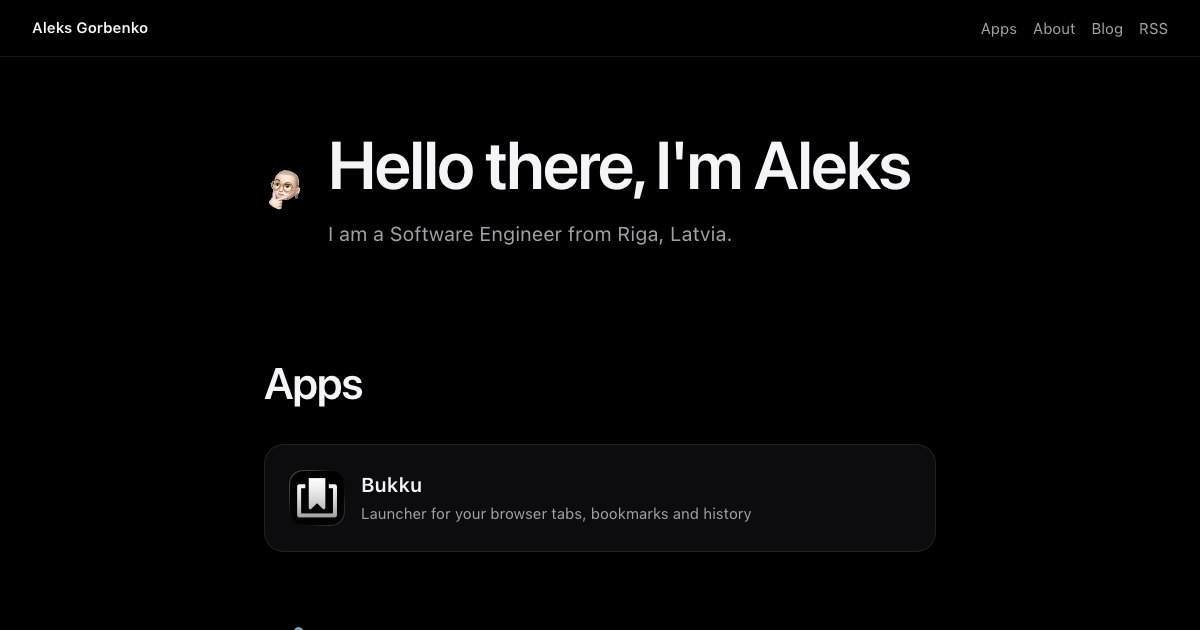
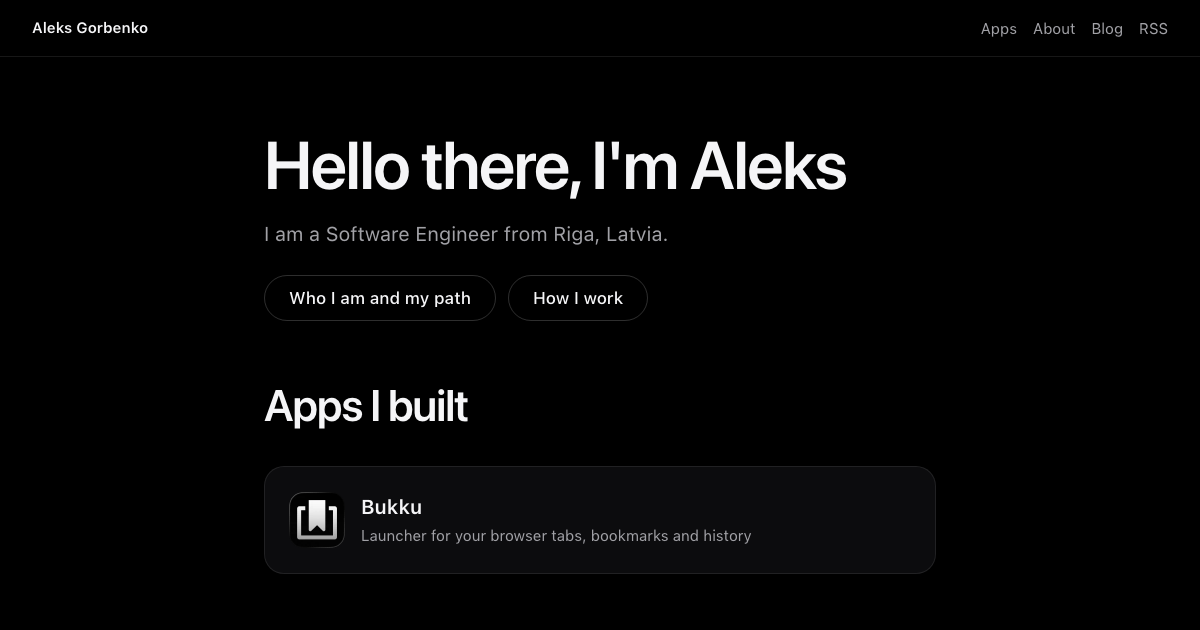
feat(home): profile links under the intro, Apps I built next, incremental make og
Thumbnails rebuild only for pages whose HTML changed; FORCE=1 redoes all.

diff --git a/tools/og.ts b/tools/og.ts
@@ -1,4 +1,5 @@
-import { mkdirSync, readdirSync, readFileSync, rmSync, statSync } from "node:fs";
+import { createHash } from "node:crypto";
+import { existsSync, mkdirSync, readdirSync, readFileSync, rmSync, statSync, writeFileSync } from "node:fs";
 import { join, relative } from "node:path";
 import { chromium } from "playwright";
 import { serve } from "./serve.ts";
@@ -6,40 +7,60 @@ import { serve } from "./serve.ts";
 const ROOT = join(import.meta.dir, "..");
 const PUBLIC = join(ROOT, "public");
 const OUT = join(ROOT, "static", "og");
+const MANIFEST = join(ROOT, "tools", "og-hashes.json");
 const WIDTH = 1200;
 const HEIGHT = 630;
 const REDIRECT = /<meta http-equiv="?refresh"?/i;
 
-function pages(folder: string): string[] {
-  return readdirSync(folder).flatMap((entry) => {
-    const path = join(folder, entry);
-    if (statSync(path).isDirectory()) {
-      return pages(path);
-    }
-    if (entry !== "index.html" || REDIRECT.test(readFileSync(path, "utf8"))) {
-      return [];
-    }
-    return [`/${relative(PUBLIC, folder)}/`.replace(/\/+/g, "/")];
-  });
+interface Page {
+  path: string;
+  slug: string;
+  hash: string;
 }
 
-export function slug(path: string): string {
+function slug(path: string): string {
   return path.replace(/^\/|\/$/g, "").replaceAll("/", "_") || "home";
 }
 
-rmSync(OUT, { recursive: true, force: true });
-mkdirSync(OUT, { recursive: true });
-const server = serve(0);
-const browser = await chromium.launch();
-try {
-  const page = await browser.newPage({ viewport: { width: WIDTH, height: HEIGHT } });
-  for (const path of pages(PUBLIC).sort()) {
-    await page.goto(new URL(path, server.url).href, { waitUntil: "networkidle" });
-    const file = join(OUT, `${slug(path)}.png`);
-    await page.screenshot({ path: file });
-    console.log(relative(ROOT, file));
-  }
-} finally {
-  await browser.close();
-  void server.stop();
+function pages(folder: string): Page[] {
+  return readdirSync(folder).flatMap((entry) => {
+    const file = join(folder, entry);
+    if (statSync(file).isDirectory()) {
+      return pages(file);
+    }
+    const html = entry === "index.html" ? readFileSync(file, "utf8") : "";
+    if (html === "" || REDIRECT.test(html)) {
+      return [];
+    }
+    const path = `/${relative(PUBLIC, folder)}/`.replace(/\/+/g, "/");
+    return [{ path, slug: slug(path), hash: createHash("sha256").update(html).digest("hex") }];
+  });
 }
+
+const force = process.env["FORCE"] === "1";
+const previous = existsSync(MANIFEST) ? (JSON.parse(readFileSync(MANIFEST, "utf8")) as Record<string, string>) : {};
+const all = pages(PUBLIC).sort((a, b) => a.slug.localeCompare(b.slug));
+const changed = all.filter((page) => force || previous[page.slug] !== page.hash || !existsSync(join(OUT, `${page.slug}.png`)));
+mkdirSync(OUT, { recursive: true });
+const keep = new Set(all.map((page) => `${page.slug}.png`));
+for (const file of readdirSync(OUT).filter((entry) => !keep.has(entry))) {
+  rmSync(join(OUT, file));
+  console.log(`removed ${file}`);
+}
+if (changed.length > 0) {
+  const server = serve(0);
+  const browser = await chromium.launch();
+  try {
+    const page = await browser.newPage({ viewport: { width: WIDTH, height: HEIGHT } });
+    for (const { path, slug: name } of changed) {
+      await page.goto(new URL(path, server.url).href, { waitUntil: "networkidle" });
+      await page.screenshot({ path: join(OUT, `${name}.png`) });
+      console.log(`static/og/${name}.png`);
+    }
+  } finally {
+    await browser.close();
+    void server.stop();
+  }
+}
+writeFileSync(MANIFEST, `${JSON.stringify(Object.fromEntries(all.map((page) => [page.slug, page.hash])), null, 2)}\n`);
+console.log(`${String(changed.length)} of ${String(all.length)} thumbnails updated`);

diff --git a/layouts/home.html b/layouts/home.html
@@ -1,18 +1,20 @@
 {{ define "main" }}
   <div class="container container-prose">
-    <section class="page-header intro" aria-label="Introduction">
-      {{ with site.Params.avatar }}
-        <img src="{{ . | relURL }}" width="40" height="40" alt="" />
+    <section class="page-header" aria-label="Introduction">
+      <h1 class="page-title">{{ .Params.heading | default site.Title }}</h1>
+      {{ with .Params.lead }}<p class="page-lead">{{ . }}</p>{{ end }}
+      {{ with .Params.profile }}
+        <ul class="intro-links">
+          {{ range . }}
+            <li><a class="button button-secondary" href="{{ .url }}">{{ .title }}</a></li>
+          {{ end }}
+        </ul>
       {{ end }}
-      <div>
-        <h1 class="page-title">{{ .Params.heading | default site.Title }}</h1>
-        {{ with .Params.lead }}<p class="page-lead">{{ . }}</p>{{ end }}
-      </div>
     </section>
 
     {{ with site.GetPage "/apps" }}
       <section class="section" aria-labelledby="apps-title">
-        <h2 class="section-title" id="apps-title">{{ .Title }}</h2>
+        <h2 class="section-title" id="apps-title">{{ $.Params.appsHeading | default .Title }}</h2>
         <ul class="cards">
           {{ range where .Pages "Params.icon" "!=" nil }}
             <li>{{ partial "app-card.html" . }}</li>

diff --git a/assets/css/14-faq.css b/assets/css/14-faq.css
@@ -52,15 +52,12 @@
     margin-top: var(--space-xs);
   }
 
-  .intro {
+  .intro-links {
     display: flex;
     flex-wrap: wrap;
-    align-items: center;
-    gap: var(--space-l);
-  }
-
-  .intro img {
-    width: var(--size-avatar);
-    border-radius: var(--radius-full);
+    gap: var(--space-s);
+    margin-top: var(--space-l);
+    padding: 0;
+    list-style: none;
   }
 }

diff --git a/assets/css/02-tokens.css b/assets/css/02-tokens.css
@@ -68,7 +68,6 @@
     --size-icon-s: 3.5rem;
     --size-icon-m: 4.5rem;
     --size-icon-l: clamp(5.5rem, 4.5rem + 4vw, 8rem);
-    --size-avatar: 2.5rem;
     --shadow-icon: 0 1.5rem 3.5rem var(--colour-shadow);
     --shadow-glow: 0 0 6rem var(--colour-glow);
     --shadow-key: 0 0.625rem 1.5rem var(--colour-key-shadow), inset 0 var(--border-hairline) 0 var(--colour-border);

diff --git a/assets/css/10-hero.css b/assets/css/10-hero.css
@@ -93,6 +93,16 @@
     text-decoration: none;
   }
 
+  .button-secondary {
+    border-color: var(--colour-border-strong);
+    background: transparent;
+    color: var(--colour-text);
+  }
+
+  .button-secondary:hover {
+    background: var(--colour-border);
+  }
+
   .button[aria-disabled="true"] {
     border-color: var(--colour-border-strong);
     background: transparent;

diff --git a/assets/css/04-layout.css b/assets/css/04-layout.css
@@ -105,6 +105,10 @@
     padding-block: var(--space-3xl);
   }
 
+  .page-header + .section {
+    padding-top: var(--space-l);
+  }
+
   .section-title {
     margin-bottom: var(--space-xl);
     font-size: var(--text-2xl);

diff --git a/assets/css/13-prose.css b/assets/css/13-prose.css
@@ -24,6 +24,10 @@
     font-size: var(--text-xl);
   }
 
+  .section + .prose > h2:first-child {
+    margin-top: 0;
+  }
+
   .prose h3,
   .prose h4 {
     margin-top: var(--space-xl);

diff --git a/content/_index.md b/content/_index.md
@@ -1,23 +1,27 @@
 +++
 heading = "Hello there, I'm Aleks"
 lead = "I am a Software Engineer from Riga, Latvia."
+appsHeading = "Apps I built"
+
+[[profile]]
+title = "Who I am and my path"
+url = "https://github.com/aleksgorbenko/whoami"
+
+[[profile]]
+title = "How I work"
+url = "https://github.com/aleksgorbenko/howiwork"
 +++
 
-- 👤 [Who am I and My Professional Path](https://github.com/aleksgorbenko/whoami)
-- 👨🏻💻 [How I Work](https://github.com/aleksgorbenko/howiwork)
+## now
 
----
-
-### now
-
-- 🧲 Configuring AI Agent "Night Shift" to work locally on my mac while I sleep
-- 🏗 Building my first macOS App
+- 🏗 Polishing my first macOS app - Bukku
+- 🔬 Researching the second app for macOS...
 - 💬 Learning Japanese with [WaniKani](https://www.wanikani.com), [BunPro](https://bunpro.jp) and ChatGPT
 - 💭 Open to opportunities with Japanese companies ([Fundamental Information Technology Engineer Examination](https://itpec.org/) certified, eligible for Japan work visa)
 
 ---
 
-### projects
+## projects
 
 - 🎴 [WaniKani for Alfred](https://github.com/aleksgorbenko/alfred-workflow-wanikani) - browse lessons/reviews, level ETA, SRS stats, and dictionary search without leaving the keyboard
 - 📖 [BunPro for Alfred](https://github.com/aleksgorbenko/alfred-workflow-bunpro) - search BunPro grammar points from Alfred
@@ -29,7 +33,7 @@ lead = "I am a Software Engineer from Riga, Latvia."
 
 ---
 
-### links
+## links
 
 - ⚙ [GitHub](https://github.com/aleksgorbenko)
 - 🧰 [LinkedIn](https://www.linkedin.com/in/aleks-gorbenko-software-engineer/)
